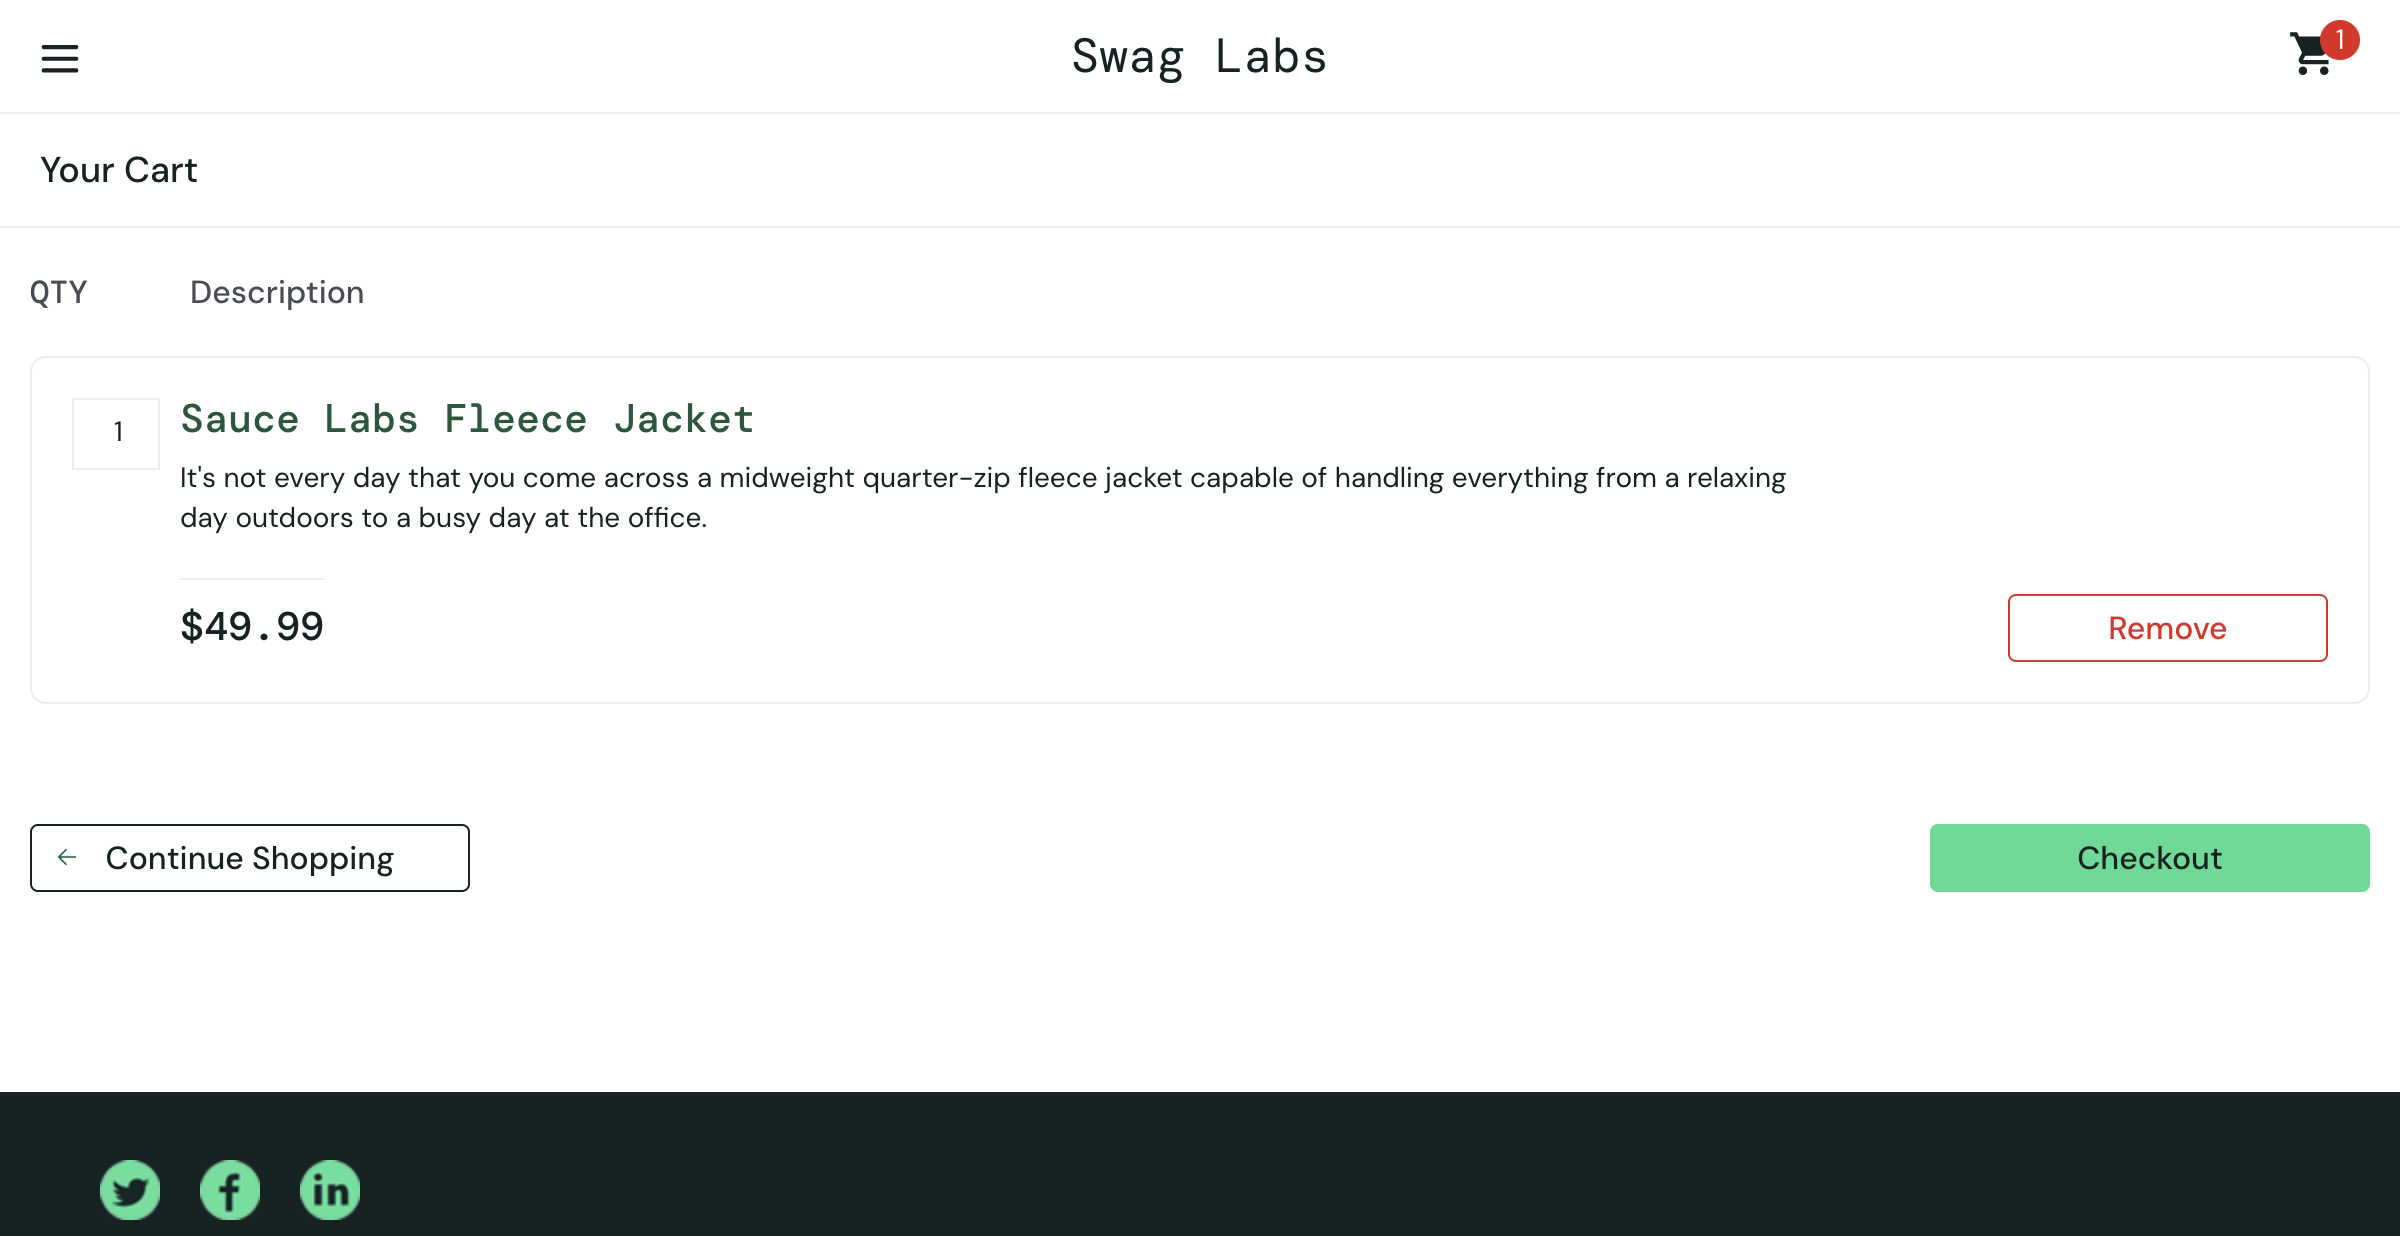
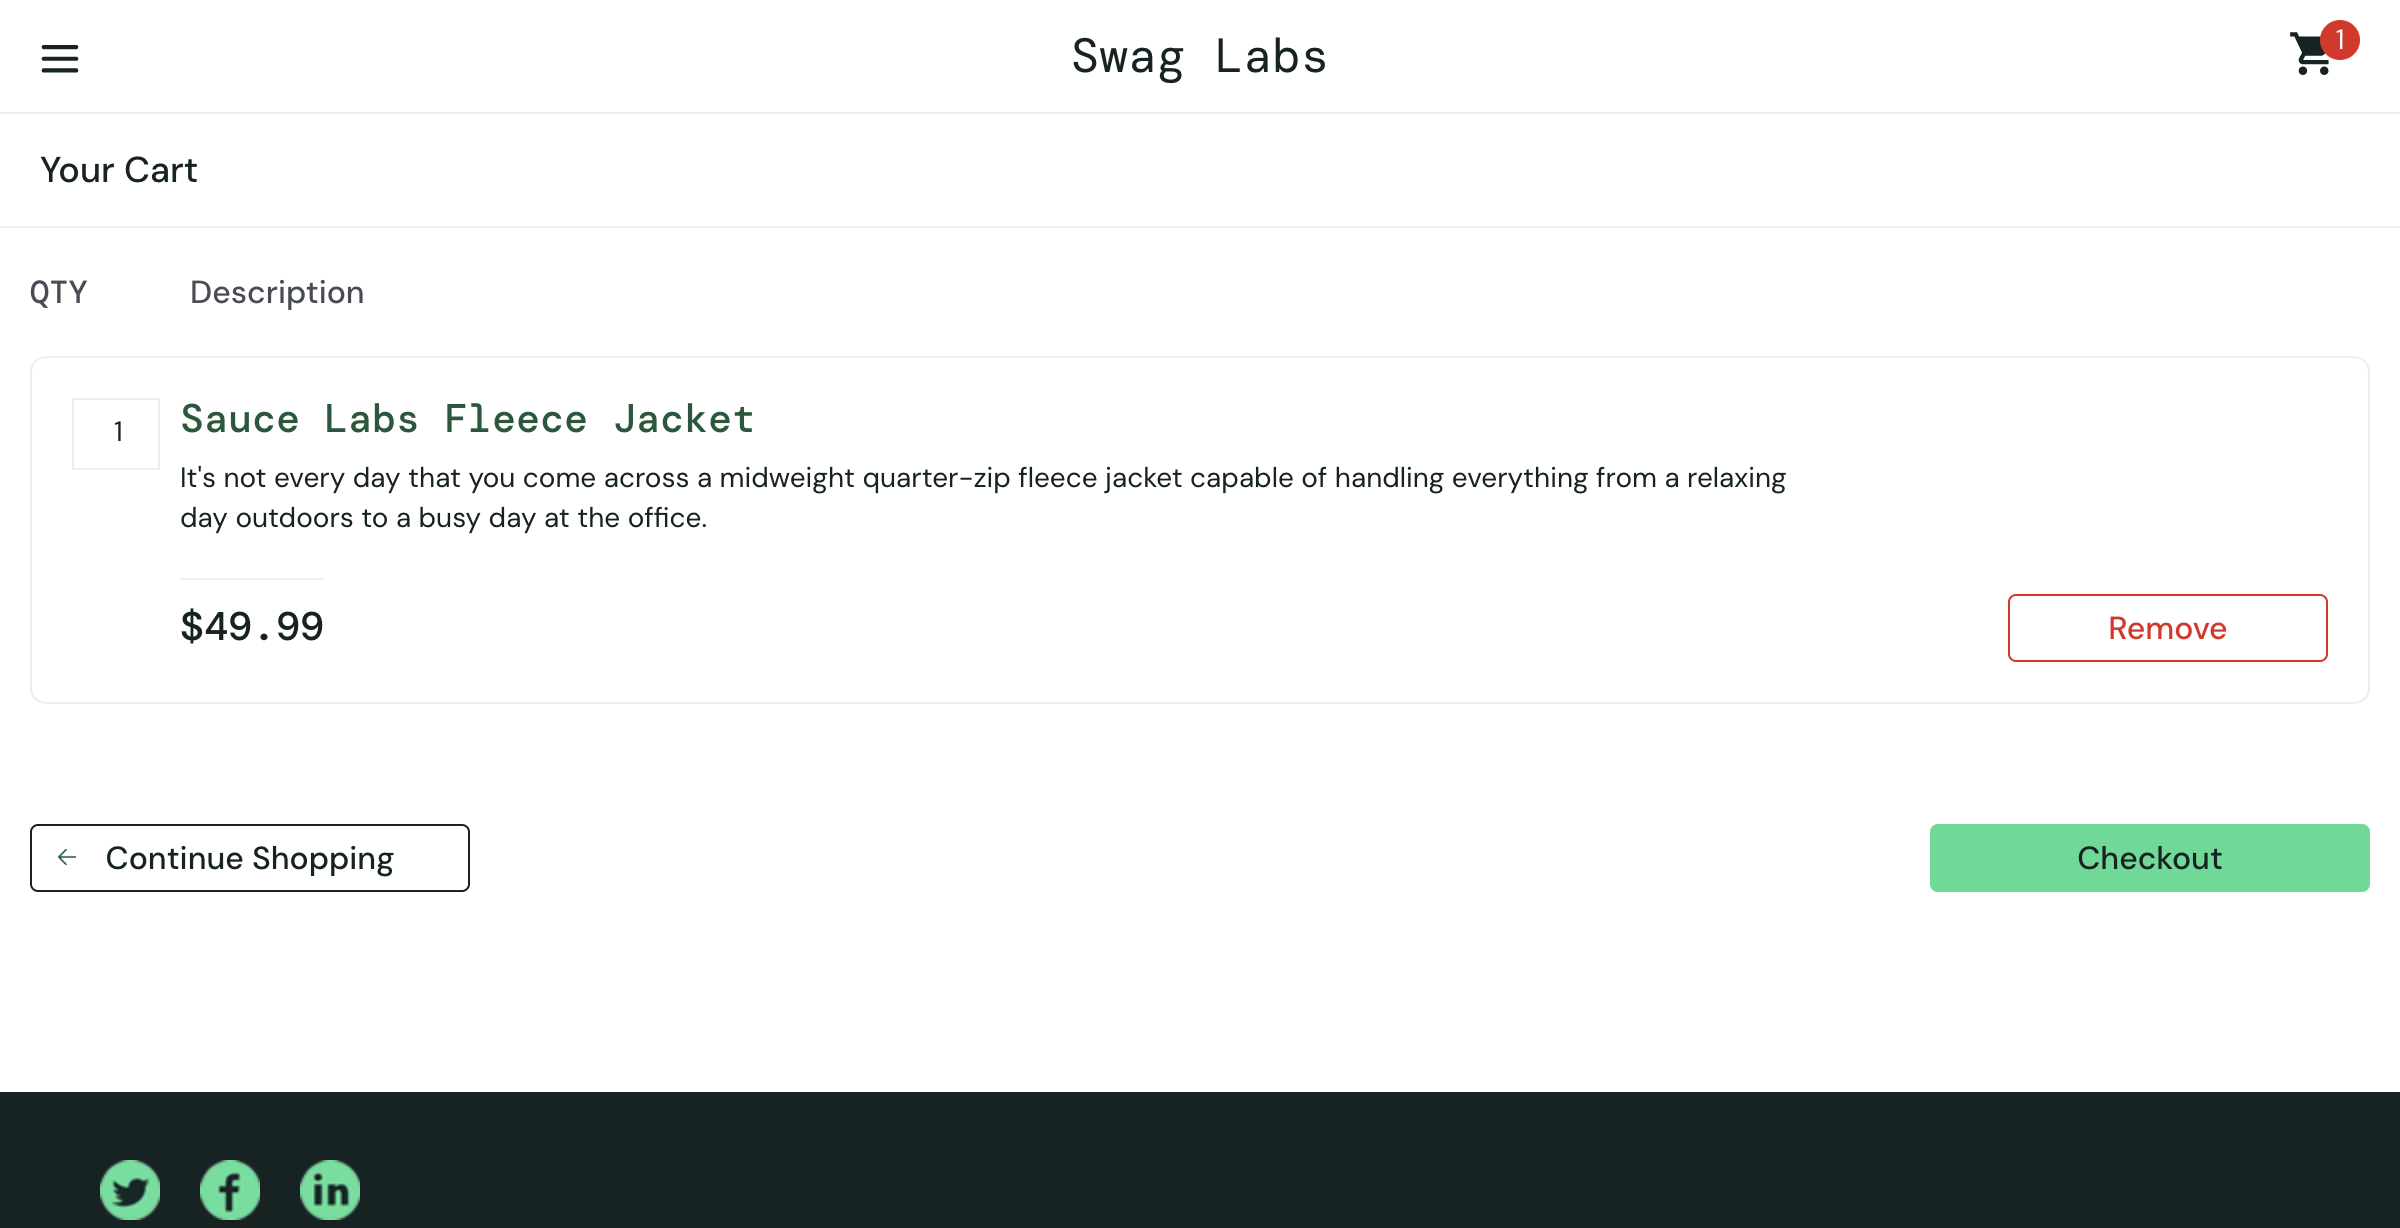
Tests verbessert

diff --git a/test_warenkorb.py b/test_warenkorb.py
@@ -1,0 +1,51 @@
+
+from selenium import webdriver
+from selenium.webdriver.chrome.service import Service
+from selenium.webdriver.common.by import By
+from webdriver_manager.chrome import ChromeDriverManager
+from selenium.webdriver.chrome.options import Options
+import time
+
+def test_warenkorb():
+
+    chrome_options = Options()
+    chrome_options.add_argument("--incognito")
+
+    chrome_options.add_experimental_option("prefs", {
+        "credentials_enable_service": False,
+        "profile.password_manager_enabled": False
+    })
+
+    chrome_options.add_argument("--disable-features=PasswordCheck,SafeBrowsingEnhancedProtection")
+    chrome_options.add_argument("--no-first-run")
+
+    driver = webdriver.Chrome(
+        service=Service(ChromeDriverManager().install()),
+        options=chrome_options
+    )
+
+    driver.get("https://www.saucedemo.com")
+    driver.find_element(By.ID, "user-name").send_keys("standard_user")
+    driver.find_element(By.ID, "password").send_keys("secret_sauce")
+    driver.find_element(By.ID, "login-button").click()
+    time.sleep(5)
+
+    try:
+        driver.switch_to.alert.accept()
+    except:
+        pass
+
+    time.sleep(1)
+    driver.find_element(By.ID, "add-to-cart-sauce-labs-fleece-jacket").click()
+    driver.find_element(By.XPATH, '//*[@data-test="shopping-cart-badge"]').click()
+    assert "cart" in driver.current_url
+
+    try:
+        assert "cart" in driver.current_url
+    except AssertionError:
+        driver.save_screenshot("fehler_warenkorb.png")
+        raise
+    finally:
+        
+        driver.save_screenshot("warenkorb.png")
+        driver.quit()